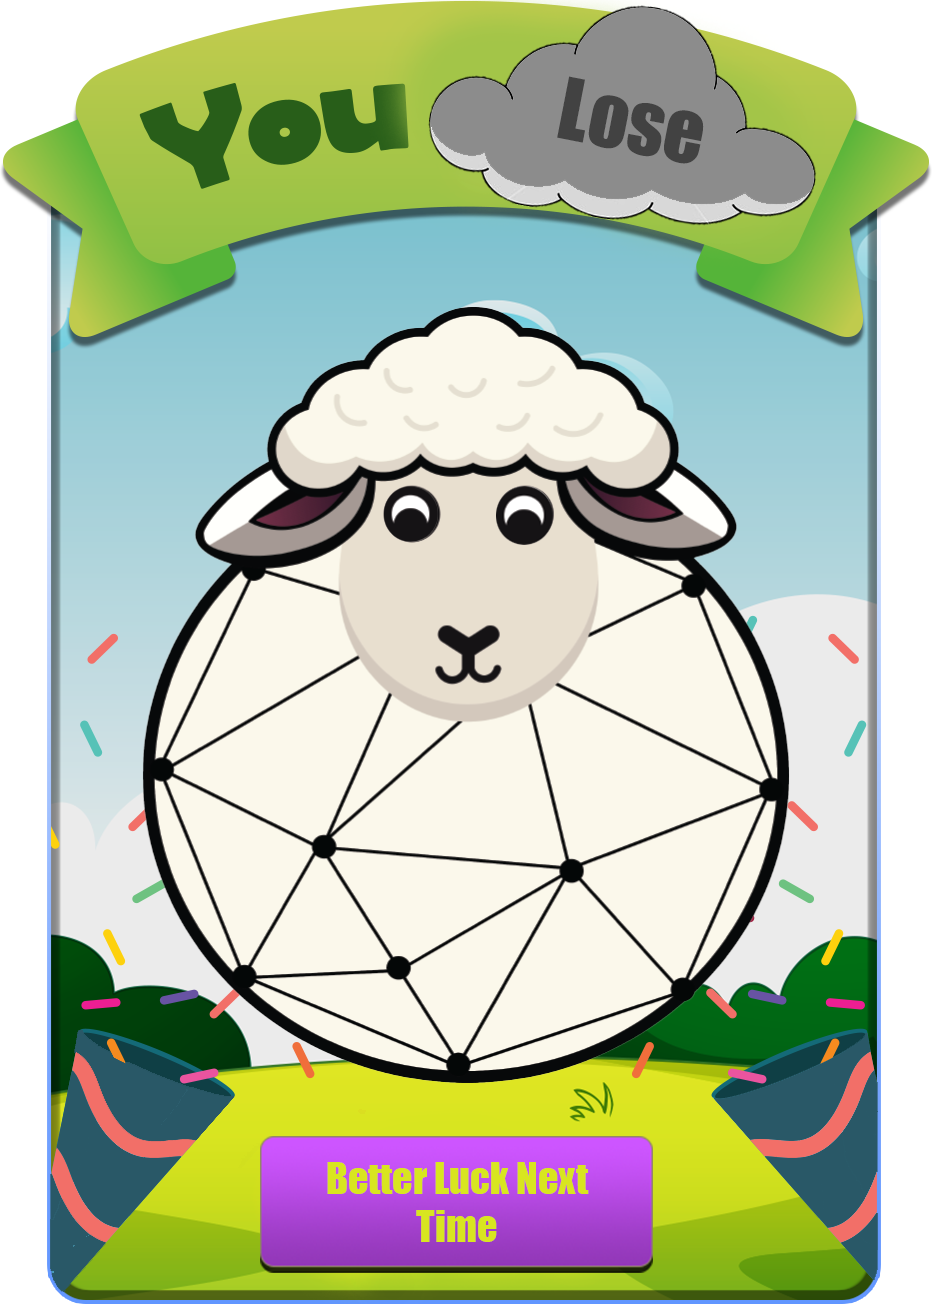
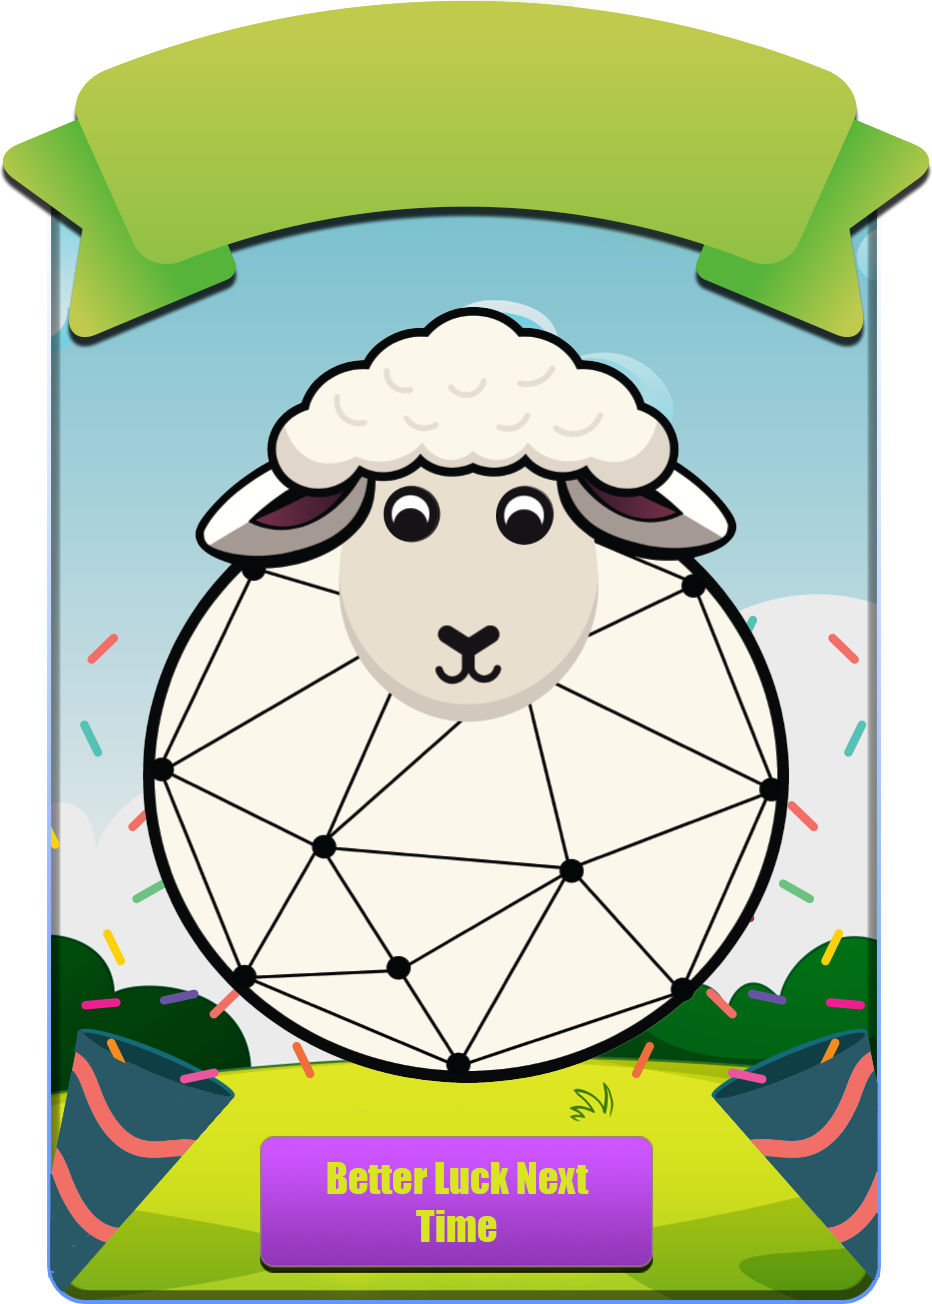
game 2 state when user leaves the game (page) + win/lose modals updates

diff --git a/packages/frontend/src/screens/RabbitHole.tsx b/packages/frontend/src/screens/RabbitHole.tsx
@@ -49,7 +49,6 @@ function RabbitHoleGame() {
   const [amountOfConnected, setAmountOfConnected] = useState(0);
   const [progress, setProgress] = useState<{ curr: number; delta: number; address: string }[]>([]);
   const [isRolling, setIsRolling] = useState(false);
-  const [amountOfReached, setAmountOfReached] = useState(0);
   const [amountOfPending, setAmountOfPending] = useState(0);
   const [amountOfComplteted, setAmountOfComplteted] = useState(0);
   const {smartAccountClient} = useSmartAccount();
@@ -60,6 +59,7 @@ function RabbitHoleGame() {
   const [gameOver, setGameOver] = useState(false);
   const [userIsLost, setUserIsLost] = useState(false);
   const [gameCompleted, setGameCompleted] = useState(false);
+  const [amountOfAllocatedPoinst, setAmountOfAllocatedPoints] = useState(0);
 
   const time = new Date();
   time.setSeconds(time.getSeconds() + 10);
@@ -145,7 +145,6 @@ function RabbitHoleGame() {
 
         console.log("FUEL TUNNEL DATA", usersData);
 
-        let amountOfReachedPerGame2 = 0;
         let amountPendingPerGame2 = 0;
         let amountOfCompleted = 0;
 
@@ -154,12 +153,10 @@ function RabbitHoleGame() {
             //setDisplayNumber(i.fuel);
             setMaxFuel(i.maxAvailableFuel);
           }
-          i.gameReached && amountOfReachedPerGame2++;
           i.isPending && amountPendingPerGame2++;
           i.isCompleted && amountOfCompleted++;
         });
 
-        setAmountOfReached(amountOfReachedPerGame2);
         setAmountOfComplteted(amountOfCompleted);
 
         // set players list
@@ -218,7 +215,7 @@ function RabbitHoleGame() {
         if (progress.property === "game2-wait-to-finish") {
           // set amount of next clicked
           setAmountOfPlayersNextClicked(amountOfPlayersnextClicked + 1);
-          if (amountOfPlayersnextClicked + 1 >= raceData.numberOfPlayersRequired) {
+          if (amountOfPlayersnextClicked + 1 >= raceData.numberOfPlayersRequired ) {
             closeLoadingModal();
             navigate(`/race/${raceId}/bullrun/preview`, {
               state: location.state
@@ -252,12 +249,9 @@ function RabbitHoleGame() {
   useEffect(() => {
     if (raceData && !isRolling) {
       console.log(">>>>>>>>>>>>>> EFFECT <<<<<<<<<<<<<<<<")
-      if (amountOfReached !== raceData.numberOfPlayersRequired) {
-        console.log("Amount of players is enough, closing waiting modal...");
-        closeWaitingModal();
-      }
+      closeWaitingModal();
     }
-  }, [amountOfReached, amountOfPending, raceData, isRolling]);
+  }, [raceData, isRolling]);
 
   /*
   useEffect(() => {
@@ -272,13 +266,19 @@ function RabbitHoleGame() {
   // kick player if page chnages (closes)
   useEffect(() => {
     const handleTabClosing = () => {
+      socket.emit("update-progress", {
+        raceId,
+        userAddress: smartAccountAddress,
+        property: "game2-eliminate",
+      });
+      handleFinishTunnelGame(raceId as string, false, Number.MAX_VALUE);
       openLoseModal();
     }
     window.addEventListener('unload', handleTabClosing);
     return () => {
       window.removeEventListener('unload', handleTabClosing);
     }
-  }, [openLoseModal]);
+  }, [openLoseModal, socket, smartAccountAddress, raceId]);
 
 
   // CHECK USER TO BE REGISTERED
@@ -390,13 +390,44 @@ function RabbitHoleGame() {
   }, [isRolling, players, roundIsFinished]);
 
 
+  // INITIAL USE EFFECT
+  useEffect(() => {
+    if (smartAccountAddress && location.state.progress) {
+      const game2state = location.state.progress.game2;
+      console.log(">>>>>>>>>>> INIT AFTER LEAVE <<<<<<<<<<<", {game2state});
+      /*
+        fuel: 0
+        gameReached: false
+        isCompleted: false
+        isEliminated: false
+        isPending: false
+        isWon: false
+        maxAvailableFuel: 10
+        waitingToFinish: false
+        pointsAllocated: 0
+      */
+
+      if (game2state.isEliminated) {
+        setUserIsLost(true);
+      }
+
+      if (game2state.pointsAllocated.toString().length) {
+        setAmountOfAllocatedPoints(game2state.pointsAllocated);
+      }
+    }
+  }, [smartAccountAddress]);
+
+
   const handleFinishTunnelGame = async(raceId: string, isWon: boolean, playersLeft: number) => {
     //setIsRolling(true);
     pause();
-
+    
     if (!gameOver) {
       setGameOver(true);
       !isWon && setUserIsLost(true);
+      
+      const amountOfPointsToAllocate = playersLeft <= 3 ? playersLeft : 0;
+      setAmountOfAllocatedPoints(amountOfPointsToAllocate)
 
       socket.emit("update-progress", {
         raceId,
@@ -404,6 +435,7 @@ function RabbitHoleGame() {
         property: "game2-complete",
         value: {
           isWon,
+          pointsAllocated: amountOfPointsToAllocate,
         }
       });
     }
@@ -472,6 +504,12 @@ function RabbitHoleGame() {
       // if user lost the game
       if (!newListOfPlayers.find(i => i.address === smartAccountAddress) && remainingPlayersCount > 0) {
         console.log("YOU LOSE :(")
+        socket.emit("update-progress", {
+          raceId,
+          userAddress: smartAccountAddress,
+          property: "game2-eliminate",
+        });
+
         handleFinishTunnelGame(raceId as string, false, remainingPlayersCount);
         setIsRolling(false);
         //return;
@@ -589,7 +627,7 @@ function RabbitHoleGame() {
           <RabbitTail phase={phase} />
         </div>
         <div className="control-panels mb-10">
-          <Lever setDisplayNumber={handleFuelUpdate} displayNumber={displayNumber} maxAvailable={maxFuel} isRolling={isRolling}/>
+          <Lever setDisplayNumber={handleFuelUpdate} displayNumber={displayNumber} maxAvailable={maxFuel} isRolling={totalSeconds === 0 || userIsLost}/>
           <GasolineGauge fuel={(maxFuel - displayNumber) * 8.8}/>
         </div>
 

diff --git a/packages/backend/index.js b/packages/backend/index.js
@@ -17,21 +17,28 @@ let racesProgresses = [];
 
 io.on("connection", socket => { 
     // when user disconnects
-    socket.on('disconnect', () => {
-        let user = null;
-        const roomsToEmitDisconnectEvent = connectedUsers.filter(i => {
-            if (i.id === socket.id) {
-                user = i;
-            }
-        }).map(i => i.room);
+     // when user disconnects
+     socket.on('disconnect', () => {
+         const roomsToEmitDisconnectEvent = connectedUsers.filter(i => i.id === socket.id).map(i => i.room);
+
         // rm user
-        connectedUsers = connectedUsers.filter(i => i.id !== socket.id);
+        let userAddress = null;
+        connectedUsers = connectedUsers.filter(i => {
+            // i.id !== socket.id
+            if (i.id !== socket.id) {
+                return true;
+            } else {
+                userAddress = i.userAddress;
+                return false;
+            }
+        });
+
+        console.log({roomsToEmitDisconnectEvent})
 
         // send the socket events
-        console.log({roomsToEmitDisconnectEvent})
         roomsToEmitDisconnectEvent.forEach(roomName => {
             socket.leave(roomName);
-            io.to(roomName).emit('leaved', {...user});
+            io.to(roomName).emit('leaved', {socketId: socket.id, userAddress});
         });
     });
 
@@ -109,6 +116,8 @@ io.on("connection", socket => {
                         isWon: false,
                         isPending: false,
                         gameReached: false,
+                        isEliminated: false,
+                        pointsAllocated: 0,
                     },
 
                     game3_preview: false,

diff --git a/packages/frontend/src/components/WinModal.tsx b/packages/frontend/src/components/WinModal.tsx
@@ -2,7 +2,7 @@
 import { useEffect, useState } from "react";
 import WinMain from "../assets/win/win-main.png";
 import NextFlag from "../assets/common/flag.png";
-import { getScoreAtGameOfUser, getScoreAtRaceOfUser } from "../utils/contract-functions";
+import { getScoreAtRaceOfUser } from "../utils/contract-functions";
 import { usePrivy } from "@privy-io/react-auth";
 
 export type WinModalProps = {
@@ -29,14 +29,14 @@ function WinModal({ handleClose, raceId, gameIndex, preloadedScore }: WinModalPr
 
   return (
     <div className="win-modal absolute inset-0 bg-[rgb(0,0,0,0.75)]">
-      <div className="mx-[10%] mb-[40%] mt-[30%]">
+      <div className="mx-[10%] mb-[40%] mt-[30%] relative">
         <img src={WinMain} alt="loading-bg" />
         { 
           !preloadedScore
           ?
-          <p className="text-6xl font-bold text-white text-center mt-10">{score?.toString().length ? score : "Pls wait..."}</p>
+          <p className="text-4xl uppercase text-[#285E19] font-bold w-full mt-10 absolute top-[-20px] text-center">{score?.toString().length ? score : "Pls wait..."}</p>
           :
-          <p className="text-6xl font-bold text-white text-center mt-10">+{preloadedScore}</p>
+          <p className="text-4xl uppercase text-[#285E19] font-bold w-full mt-10 absolute top-[-25px] text-center">+{preloadedScore}</p>
         }
       </div>
       <div className="absolute bottom-0 right-0 w-[40%]">

diff --git a/packages/frontend/src/components/LoseModal.tsx b/packages/frontend/src/components/LoseModal.tsx
@@ -1,9 +1,6 @@
 "use client"
-import { useEffect, useState } from "react";
 import LoseMain from "../assets/lose/lose-main.png";
 import NextFlag from "../assets/common/flag.png";
-import { getScoreAtGameOfUser, getScoreAtRaceOfUser } from "../utils/contract-functions";
-import { usePrivy } from "@privy-io/react-auth";
 
 export type WinModalProps = {
   handleClose: () => void;
@@ -20,9 +17,9 @@ function LoseModal({ handleClose, raceId, gameIndex, preloadedScore }: WinModalP
         { 
           !preloadedScore
           ?
-          <p className="text-6xl font-bold text-white text-center mt-10">+0</p>
+          <p className="text-4xl uppercase text-[#285E19] font-bold w-full mt-10 absolute top-[-20px] text-center">+0</p>
           :
-          <p className="text-6xl font-bold text-white text-center mt-10">+{preloadedScore}</p>
+          <p className="text-4xl uppercase text-[#285E19] font-bold w-full mt-10 absolute top-[-25px] text-center">+{preloadedScore}</p>
         }
       </div>
       <div className="absolute bottom-0 right-0 w-[40%]">

diff --git a/packages/frontend/src/components/rabbit/PlayerMovement.tsx b/packages/frontend/src/components/rabbit/PlayerMovement.tsx
@@ -7,7 +7,7 @@ const PlayerMovement = ({ phase, players }: {phase: RabbitHolePhases; players: C
   // Sort players by Fuel submitted
   const sortedPlayers = [...players].sort((a, b) => b.Fuel - a.Fuel);
 
-  console.log("SORTED PLAYERS:", {sortedPlayers})
+  //console.log("SORTED PLAYERS:", {sortedPlayers})
 
   const playerRefs = useRef([]);
   const fuelRefs = useRef([]);
@@ -50,8 +50,8 @@ const PlayerMovement = ({ phase, players }: {phase: RabbitHolePhases; players: C
             fuelElement.style.opacity = 0;
           }, index * 300);
         } else if (phase === 'CloseTunnel') {
-          //playerElement.style.left = '80%';
-          //fuelElement.style.left = '80%';
+          playerElement.style.left = '50%';
+          fuelElement.style.left = '50%';
           setTimeout(() => {
             playerElement.style.transition = 'all 0.5s ease-out';
             playerElement.style.left = '-100%';

diff --git a/packages/frontend/src/screens/SelectRaceScreen.tsx b/packages/frontend/src/screens/SelectRaceScreen.tsx
@@ -46,12 +46,11 @@ function SelectRaceScreen() {
 
     
     getRaceById(Number(raceId), smartAccountAddress as `0x${string}`).then(data => {
-      navigate(`/race/${raceId}/rabbit-hole/rules`, {
+      navigate(`/race/${raceId}/rabbit-hole/preview`, {
         state: generateStateObjectForGame(data, progress, "board")
       });
     });
     return;
-    
     
     
     if (!progress?.countdown) {
@@ -314,7 +313,6 @@ function SelectRaceScreen() {
             />
           ))}
       </div>
-
       { modalIsOpen && modalType === "waiting" && <WaitingForPlayersModal numberOfPlayers={amountOfConnected} numberOfPlayersRequired={races.find((r: any) => r.id === raceId)?.numOfPlayersRequired || 9}/> }
       { modalIsOpen && modalType === "registering" && <RegisteringModal/> }
       { modalIsOpen && modalType === "registered"  && <RegisteredModal handleClose={closeModal} timeToStart={(() => {

diff --git a/packages/backend/utils/update-progress.js b/packages/backend/utils/update-progress.js
@@ -51,6 +51,9 @@ module.exports = (property, value, rProgress) => {
             }
             break;
         }
+        case "game2-eliminate": 
+            rProgress.progress.game2.isEliminated = true;
+            break;
         case "game2-set-fuel":
             rProgress.progress.game2 = {
                 ...rProgress.progress.game2,
@@ -64,6 +67,7 @@ module.exports = (property, value, rProgress) => {
                 ...rProgress.progress.game2,
                 isCompleted: true,
                 isWon: value.isWon,
+                pointsAllocated: value.pointsAllocated,
             }
             break;
         case "game2-wait-to-finish": {

diff --git a/packages/frontend/src/screens/RabbitHoleRules.tsx b/packages/frontend/src/screens/RabbitHoleRules.tsx
@@ -122,7 +122,7 @@ export default function RabbitHoleRules() {
                 <div className="bg-yellow-500 h-2.5" style={{width: `${totalSeconds * 10}%`}}></div>
             </div>
             <div className="mt-7 flex w-full justify-center">
-                <RibbonLabel text="RULES"/>
+                <RibbonLabel text="HOW TO PLAY"/>
             </div>
             <div className="h-full flex flex-col gap-3 px-10 mt-4">
                 <Rule text="SET UP YOUR SPEED BEFORE GOING INTO THE TUNNEL"/>

diff --git a/packages/frontend/src/screens/UnderdogRules.tsx b/packages/frontend/src/screens/UnderdogRules.tsx
@@ -120,7 +120,7 @@ export default function UnderdogRules() {
                 <div className="bg-yellow-500 h-2.5" style={{width: `${totalSeconds * 10}%`}}></div>
             </div>
             <div className="mt-7 flex w-full justify-center">
-                <RibbonLabel text="RULES"/>
+                <RibbonLabel text="HOW TO PLAY"/>
             </div>
             <div className="h-full flex flex-col gap-3 px-10 mt-4">
                 <Rule text="SWIPE LEFT OR RIGHT TO ANSWER QUESTIONS"/>

diff --git a/packages/frontend/src/screens/BullrunRules.tsx b/packages/frontend/src/screens/BullrunRules.tsx
@@ -120,7 +120,7 @@ export default function BullrunRules() {
                 <div className="bg-yellow-500 h-2.5" style={{width: `${totalSeconds * 10}%`}}></div>
             </div>
             <div className="mt-7 flex w-full justify-center">
-                <RibbonLabel text="RULES"/>
+                <RibbonLabel text="HOW TO PLAY"/>
             </div>
             <div className="h-fit flex flex-col gap-3 px-10 mt-4">
                 <Rule text="1 VS 1 AGAINST OTHER PLAYERS"/>

diff --git a/packages/frontend/src/screens/CountDownScreen.tsx b/packages/frontend/src/screens/CountDownScreen.tsx
@@ -38,7 +38,8 @@ function CountDownScreen() {
     //console.log("BEFORE NAVIGATE", data);
     //console.log(`/race/${raceId}/${data.questionsByGames.length}/${data.gamesCompletedPerUser.length}/questions`)
     //return;
-    
+
+
     navigate(`/race/${raceId}/underdog/preview`, {
       state: location.state
     });
